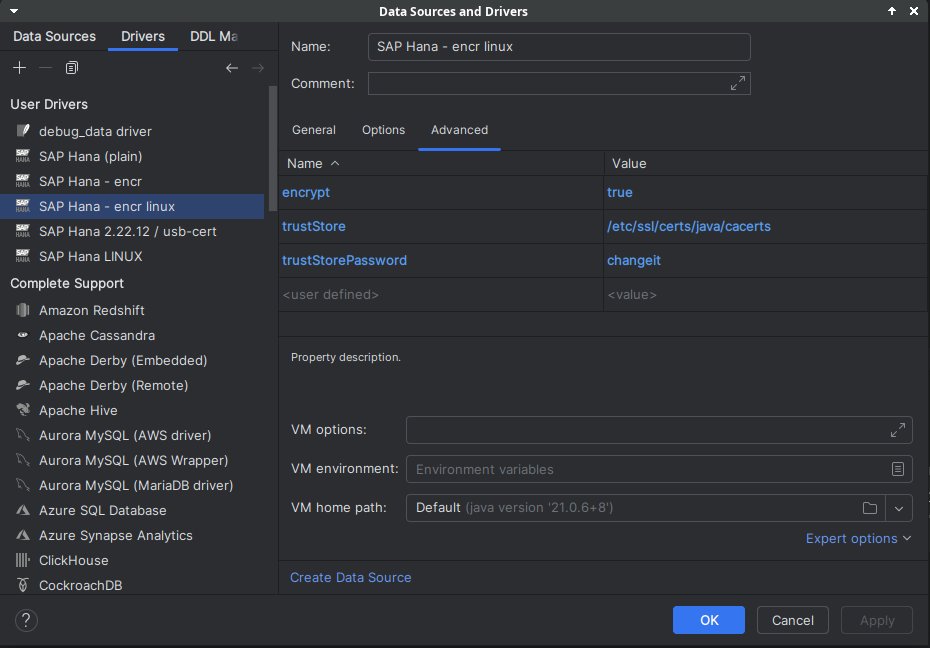
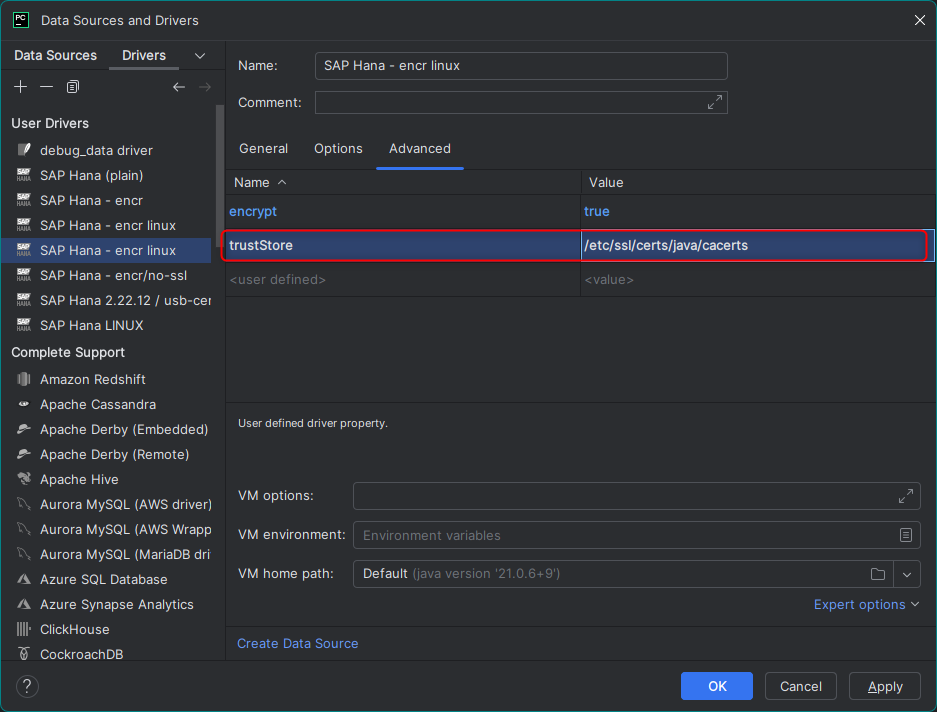
cont

diff --git a/_posts/2025-03-07-about-certificates.md b/_posts/2025-03-07-about-certificates.md
@@ -59,9 +59,9 @@ Root-Zertifikate können entweder direkt als File (crt/pem) verwendet werden ode
         conn_str_hana = 'hana://DB_USER:DB_PASSWORD@DB_ADDRESS:/?encrypt=true&sslTrustStore=/etc/ssl/certs/ca-certificates.crt'
       end
       ```
-  * `jdbc`: falls `-Djavax.net.ssl.trustStoreType=Windows-ROOT` ebenfalls den Windows Store
+  * `jdbc`:
     * ~~**DBeaver:** verwende ich nicht auf Linux.~~
-    * **PyCharm:** trust Store von Linux muss angegeben werden:
+    * **PyCharm:** trust Store von Linux muss angegeben werden: trustStore /etc/ssl/certs/java/cacerts
     ![Linux - Jetbrains Data Source Driver Dialog mit Properties](/assets/images/posts/2025-03-07-about-certificates/jetbrains-jdbc-props-linux.png)
 
 
